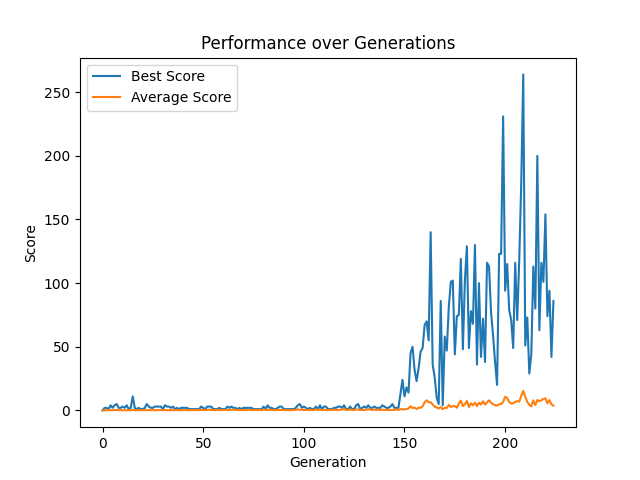
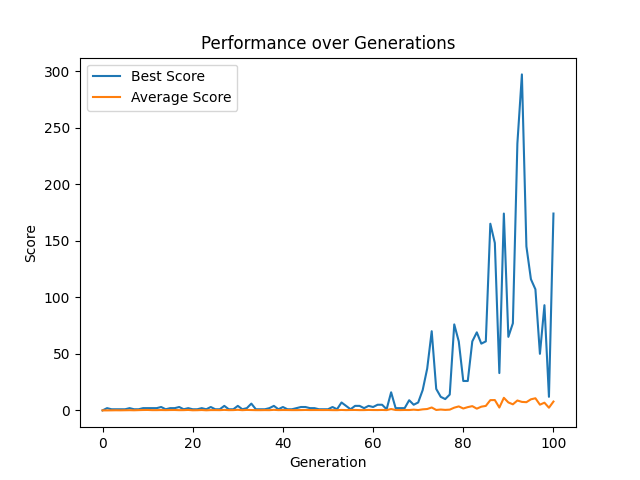
adding: hyperparameter tuning and readme

diff --git a/genetic_algortihm.py b/genetic_algortihm.py
@@ -14,37 +14,79 @@ def select_parents(birds):
             return bird
     return birds[-1]  # Return the last bird if none are selected
 
-def crossover(parent1, parent2):
+def tournament_selection(birds, tournament_size=3):
+    tournament = np.random.choice(birds, tournament_size)
+    return max(tournament, key=lambda bird: bird.score)
+
+def roulette_wheel_selection(birds):
+    total_fitness = sum(bird.score for bird in birds)
+    selected_value = np.random.uniform(0, total_fitness)
+    cumulative_fitness = 0
+    for bird in birds:
+        cumulative_fitness += bird.score
+        if cumulative_fitness > selected_value:
+            return bird
+    return birds[-1]  # Return the last bird if none are selected
+
+def crossover(parent1, parent2, method):
     child_brain = NeuralNetwork(parent1.brain.input_size, parent1.brain.hidden_size, parent1.brain.output_size)
     
-    # Crossover weights and biases
-    child_brain.weights_input_to_hidden = np.where(np.random.rand() < 0.5, parent1.brain.weights_input_to_hidden, parent2.brain.weights_input_to_hidden)
-    child_brain.weights_hidden_to_output = np.where(np.random.rand() < 0.5, parent1.brain.weights_hidden_to_output, parent2.brain.weights_hidden_to_output)
-    child_brain.bias_hidden = np.where(np.random.rand() < 0.5, parent1.brain.bias_hidden, parent2.brain.bias_hidden)
-    child_brain.bias_output = np.where(np.random.rand() < 0.5, parent1.brain.bias_output, parent2.brain.bias_output)
-    
+    if method == 'uniform':
+        mask = np.random.rand() < 0.5
+        child_brain.weights_input_to_hidden = np.where(mask, parent1.brain.weights_input_to_hidden, parent2.brain.weights_input_to_hidden)
+        child_brain.weights_hidden_to_output = np.where(mask, parent1.brain.weights_hidden_to_output, parent2.brain.weights_hidden_to_output)
+        child_brain.bias_hidden = np.where(mask, parent1.brain.bias_hidden, parent2.brain.bias_hidden)
+        child_brain.bias_output = np.where(mask, parent1.brain.bias_output, parent2.brain.bias_output)
+
+    elif method == 'one_point':
+        crossover_point = np.random.randint(parent1.brain.hidden_size)
+        child_brain.weights_input_to_hidden[:crossover_point] = parent1.brain.weights_input_to_hidden[:crossover_point]
+        child_brain.weights_input_to_hidden[crossover_point:] = parent2.brain.weights_input_to_hidden[crossover_point:]
+
+    elif method == 'two_point':
+        crossover_point1 = np.random.randint(parent1.brain.hidden_size)
+        crossover_point2 = np.random.randint(parent1.brain.hidden_size)
+        start, end = min(crossover_point1, crossover_point2), max(crossover_point1, crossover_point2)
+        child_brain.weights_input_to_hidden[start:end] = parent1.brain.weights_input_to_hidden[start:end]
+        child_brain.weights_input_to_hidden[:start] = parent2.brain.weights_input_to_hidden[:start]
+        child_brain.weights_input_to_hidden[end:] = parent2.brain.weights_input_to_hidden[end:]
+
+    elif method == 'arithmetic':
+        alpha = np.random.rand()
+        child_brain.weights_input_to_hidden = alpha * parent1.brain.weights_input_to_hidden + (1 - alpha) * parent2.brain.weights_input_to_hidden
+        child_brain.weights_hidden_to_output = alpha * parent1.brain.weights_hidden_to_output + (1 - alpha) * parent2.brain.weights_hidden_to_output
+        child_brain.bias_hidden = alpha * parent1.brain.bias_hidden + (1 - alpha) * parent2.brain.bias_hidden
+        child_brain.bias_output = alpha * parent1.brain.bias_output + (1 - alpha) * parent2.brain.bias_output
+
     return child_brain
 
-def generate_new_population(birds, population_size, WIDTH, HEIGHT):
+def generate_new_population(birds, population_size, WIDTH, HEIGHT, mutation_rate, hidden_layer_size, elitism_rate=0.1, method="uniform"):
     new_birds = []
     
+    num_elites = int(elitism_rate * population_size)
+    elites = sorted(birds, key=lambda bird: bird.score, reverse=True)[:num_elites]
+    
+    # Adding elites directly to the new population
+    new_birds.extend(elites)
+    
     # Select two parents and create a child for the new generation
-    for _ in range(population_size):
-        parent1 = select_parents(birds)
-        parent2 = select_parents(birds)
+    for _ in range(population_size - num_elites):
+        parent1 = roulette_wheel_selection(birds)
+        parent2 = roulette_wheel_selection(birds)
         max_attempts = 10
         attempts = 0
         while parent2 == parent1 and attempts < max_attempts:
-            parent2 = select_parents(birds)
+            parent2 = roulette_wheel_selection(birds)
             attempts += 1
         
         # If parent2 is still the same as parent1 after max_attempts, choose a random bird
         if parent2 == parent1:
             parent2 = random.choice(birds)
-        child_brain = crossover(parent1, parent2)
-        child_brain.mutate(0.1)  # 10% mutation rate
-        child = Bird(WIDTH // 4, HEIGHT // 2, HEIGHT)
+        child_brain = crossover(parent1, parent2, method)
+        child_brain.mutate(mutation_rate)  # mutation rate
+        child = Bird(WIDTH // 4, HEIGHT // 2, HEIGHT, hidden_layer_size)
         child.brain = child_brain
         new_birds.append(child)
 
     return new_birds
+

diff --git a/hyperparameters.py b/hyperparameters.py
@@ -1,0 +1,98 @@
+import numpy as np
+from game_functions import *
+from genetic_algortihm import *
+import multiprocessing
+from scipy.stats import linregress
+
+# Paramètres du jeu
+WIDTH = 480
+HEIGHT = 640
+POPULATION_SIZE = 200
+VISUALIZE = False
+NUM_TRIALS = 64
+# Define hyperparameter ranges
+population_sizes = [200]
+mutation_rates = [0.1]
+hidden_layer_sizes = [11]
+methods = ["uniform", "one_point", "two_point", "arithmetic"]
+
+best_score = -np.inf  # You want to maximize the score
+best_hyperparameters = None
+
+def run_genetic_algorithm(num_generations, population_size, mutation_rate, hidden_layer_size, method, visualize=False):
+    if visualize:
+        window, clock = initialize_game(WIDTH, HEIGHT)
+        font = pygame.font.Font(None, 36)
+    birds = create_new_population(population_size, hidden_layer_size, WIDTH, HEIGHT)
+    generation_info = {'generation': [], 'best_score': [], 'average_score': []}
+    dead_birds = []
+    pipes = [Pipe(WIDTH, HEIGHT)]
+    generation = 0
+
+    while generation < num_generations:
+        if visualize:
+            running = handle_events()
+            if not running:
+                break
+        birds, pipes, dead_birds = update_game_state(birds, pipes, dead_birds, WIDTH, HEIGHT)
+
+        if len(birds) == 0:
+            best_bird_score = max(dead_birds, key=lambda bird: bird.score).score
+            average_score = sum(bird.score for bird in dead_birds) / len(dead_birds)
+
+            generation_info['generation'].append(generation)
+            generation_info['best_score'].append(best_bird_score)
+            generation_info['average_score'].append(average_score)
+
+            birds = generate_new_population(dead_birds, population_size, WIDTH, HEIGHT, mutation_rate, hidden_layer_size, method)
+            dead_birds = []
+            pipes = reset_game(birds, pipes, WIDTH, HEIGHT)
+            pipes = [Pipe(WIDTH, HEIGHT)]
+            generation += 1
+
+        if visualize:
+            render_game(window, birds, pipes, generation, font)
+            clock.tick(60)
+
+    if visualize:
+        pygame.quit()
+
+    return generation_info
+
+def thread_function(args):
+    i, population_size, mutation_rate, hidden_layer_size, return_dict, method = args
+    generation_info = run_genetic_algorithm(300, population_size, mutation_rate, hidden_layer_size, method)
+    
+    if generation_info['average_score']:
+        slope, _, _, _, _ = linregress(range(len(generation_info['average_score'])), generation_info['average_score'])
+        return_dict[i] = {
+            'slope': slope,
+            'hyperparameters': {
+                'population_size': population_size,
+                'mutation_rate': mutation_rate,
+                'hidden_layer_size': hidden_layer_size,
+                'method': method
+            }
+        }
+    print(f'Trial number {i}')
+
+if __name__ == '__main__':
+    manager = multiprocessing.Manager()
+    return_dict = manager.dict()
+    args_list = []
+
+    trial_number = 0
+    for population_size in population_sizes:
+        for mutation_rate in mutation_rates:
+            for hidden_layer_size in hidden_layer_sizes:
+                for method in methods :
+                    args_list.append((trial_number, population_size, mutation_rate, hidden_layer_size, return_dict, method))
+                    trial_number += 1
+
+    pool = multiprocessing.Pool(processes=multiprocessing.cpu_count())
+    pool.map(thread_function, args_list)
+
+    # Here you can find the best hyperparameters from return_dict
+    best_trial = max(return_dict.items(), key=lambda x: x[1]['slope'])
+    print(f"Best hyperparameters: {best_trial[1]['hyperparameters']}")
+

diff --git a/neural_network.py b/neural_network.py
@@ -34,12 +34,30 @@ class NeuralNetwork:
             for i in range(weight_matrix.shape[0]):
                 for j in range(weight_matrix.shape[1]):
                     if np.random.rand() < mutation_rate:
-                        weight_matrix[i][j] += np.random.randn() * 0.5
+                        mutation_type = np.random.choice(['gaussian', 'uniform', 'reset'])
+                        
+                        if mutation_type == 'gaussian':
+                            weight_matrix[i][j] += np.random.randn() * 0.5
+                        
+                        elif mutation_type == 'uniform':
+                            weight_matrix[i][j] += np.random.uniform(-0.5, 0.5)
+                        
+                        elif mutation_type == 'reset':
+                            weight_matrix[i][j] = np.random.randn()
 
         for bias in [self.bias_hidden, self.bias_output]:
             for i in range(len(bias)):
                 if np.random.rand() < mutation_rate:
-                    bias[i] += np.random.randn() * 0.5
+                    mutation_type = np.random.choice(['gaussian', 'uniform', 'reset'])
+                    
+                    if mutation_type == 'gaussian':
+                        bias[i] += np.random.randn() * 0.5
+                    
+                    elif mutation_type == 'uniform':
+                        bias[i] += np.random.uniform(-0.5, 0.5)
+                    
+                    elif mutation_type == 'reset':
+                        bias[i] = np.random.randn()
 
     def save(self, filename, generation):
         data = {

diff --git a/game.py b/game.py
@@ -20,8 +20,8 @@ listener.start()
 # Paramètres du jeu
 WIDTH = 480
 HEIGHT = 640
-POPULATION_SIZE = 200
-VISUALIZE = True
+POPULATION_SIZE = 250
+VISUALIZE = False
 
 def main():
     try:
@@ -36,7 +36,7 @@ def main():
     if VISUALIZE :
         window, clock = initialize_game(WIDTH, HEIGHT)
         font = pygame.font.Font(None, 36)
-    birds = create_new_population(POPULATION_SIZE, WIDTH, HEIGHT)
+    birds = create_new_population(POPULATION_SIZE, WIDTH, HEIGHT, 5)
     
     dead_birds = []
     pipes = [Pipe(WIDTH, HEIGHT)]
@@ -51,7 +51,7 @@ def main():
         birds, pipes, dead_birds = update_game_state(birds, pipes, dead_birds, WIDTH, HEIGHT)
 
         if len(birds) == 0 :
-            birds = generate_new_population(dead_birds, POPULATION_SIZE, WIDTH, HEIGHT)
+            birds = generate_new_population(dead_birds, POPULATION_SIZE, WIDTH, HEIGHT, 0.1, 11)
             if not VISUALIZE :
                 print(f'generation number {generation}, max score : {max(dead_birds, key=lambda bird: bird.score).score}')
             generation_info['generation'].append(generation)

diff --git a/bird.py b/bird.py
@@ -3,7 +3,7 @@ from neural_network import NeuralNetwork
 
 
 class Bird:
-    def __init__(self, x, y, HEIGHT):
+    def __init__(self, x, y, HEIGHT, hidden_layer_size):
         self.x = x
         self.y = y
         self.speed = 0
@@ -12,9 +12,10 @@ class Bird:
         self.image = pygame.image.load("bird.png")
         self.HEIGHT = HEIGHT
         self.score = 0
+        self.frame_survived = 0
 
         # Initialize the bird's brain
-        self.brain = NeuralNetwork(input_size=4, hidden_size=8, output_size=1)
+        self.brain = NeuralNetwork(input_size=4, hidden_size=hidden_layer_size, output_size=1)
 
     def update_position(self):
         self.speed += self.gravity

diff --git a/game_functions.py b/game_functions.py
@@ -16,8 +16,8 @@ def initialize_game(WIDTH, HEIGHT):
     clock = pygame.time.Clock()
     return window, clock
 
-def create_new_population(POPULATION_SIZE, WIDTH, HEIGHT):
-    return [Bird(WIDTH // 4, HEIGHT // 2, HEIGHT) for _ in range(POPULATION_SIZE)]
+def create_new_population(POPULATION_SIZE, WIDTH, HEIGHT, hidden_layer_size):
+    return [Bird(WIDTH // 4, HEIGHT // 2, HEIGHT, hidden_layer_size) for _ in range(POPULATION_SIZE)]
 
 def handle_events():
     for event in pygame.event.get():

diff --git a/README.md b/README.md
@@ -1,1 +1,71 @@
-# GeneticFlappyBIrd
+# Genetic Flappy Bird: An Evolutionary Approach
+
+## Introduction
+
+Welcome to the Genetic Flappy Bird project. This is not just a game; it's an experiment in artificial life and evolution, where the renowned Flappy Bird game meets Genetic Algorithms. In this exciting innovation, birds are programmed to play the game, learn, evolve, and get better through generations.
+
+## Project Goal
+
+The primary objective of this project is to create an intelligent agent capable of playing the Flappy Bird game autonomously and proficiently. We simulate a population of birds navigating through the game, and through the principles of natural selection, genetic crossover, and mutation, we let the birds evolve to find a strategy that excels at the game.
+
+## Challenges Faced
+
+### 1. **Diversity and Exploration**
+
+   - **Problem:** Initial generations lacked diversity, leading to premature convergence and a lack of exploration in the solution space.
+   - **Solution:** Enhanced mutation strategies were employed to introduce variety and improve exploration.
+
+### 2. **Selection Strategy**
+
+   - **Problem:** Various selection mechanisms were tried, like tournament and roulette wheel, each with its own challenges in choosing parents for crossover.
+   - **Solution:** Adopted a fitness-proportional selection strategy, ensuring a balance between exploration and exploitation.
+
+### 3. **Hyperparameter Optimization**
+
+   - **Problem:** Finding an optimal set of hyperparameters to guide the genetic algorithm was a significant challenge.
+   - **Solution:** A thorough grid search and multiple iterations helped fine-tune the hyperparameters for better performance.
+
+## Methodologies and Strategies
+
+### **Mutation**
+
+Different mutation approaches were experimented with to maintain diversity within the population, ensuring a wide exploration of the solution space.
+
+### **Crossover**
+
+Various crossover methods such as uniform, one-point, and two-point crossovers were implemented to combine the genetic information of selected parents effectively.
+
+### **Selection**
+
+Roulette wheel selection, proportional to a bird's fitness, was chosen as the most effective strategy to select birds for breeding the next generation.
+
+### **Fitness Evaluation**
+
+A robust fitness function was developed, incorporating rewards and penalties to guide the evolution process towards more proficient navigation strategies.
+
+### **Elite Preservation**
+
+Elite preservation strategies were employed to ensure that the best individuals are carried over to subsequent generations, preserving their genetic information.
+
+## Hyperparameter Tuning
+
+Extensive experiments were conducted to tune the hyperparameters, using grid search to explore various combinations of population sizes, mutation rates, and hidden layer sizes.
+
+### Optimal Hyperparameters:
+- **Population Size:** 200
+- **Mutation Rate:** 0.1
+- **Hidden Layer Sizes:** 11
+- **Crossover Method:** Uniform
+
+## Visualization and Results
+
+A comprehensive score plot visualizes the evolution process, portraying the progress in the best and average scores over generations.
+
+![Score Plot](./scores.png)
+
+## Conclusion and Future Directions
+
+This project illustrates the versatility of Genetic Algorithms in solving optimization problems, even in the complex and dynamic landscape of a game like Flappy Bird. The journey through various evolutionary strategies has been enriching, leading to a proficient and autonomous agent capable of navigating the game with remarkable competence.
+
+The future may see further enhancements, exploring different evolutionary strategies, and diving deeper into the realms of artificial life and computational intelligence.
+
